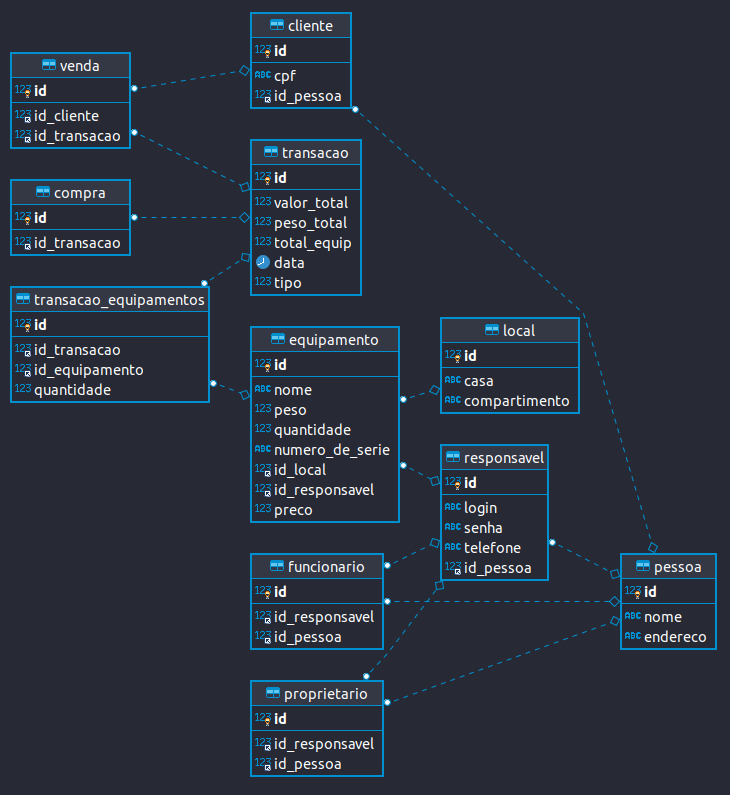
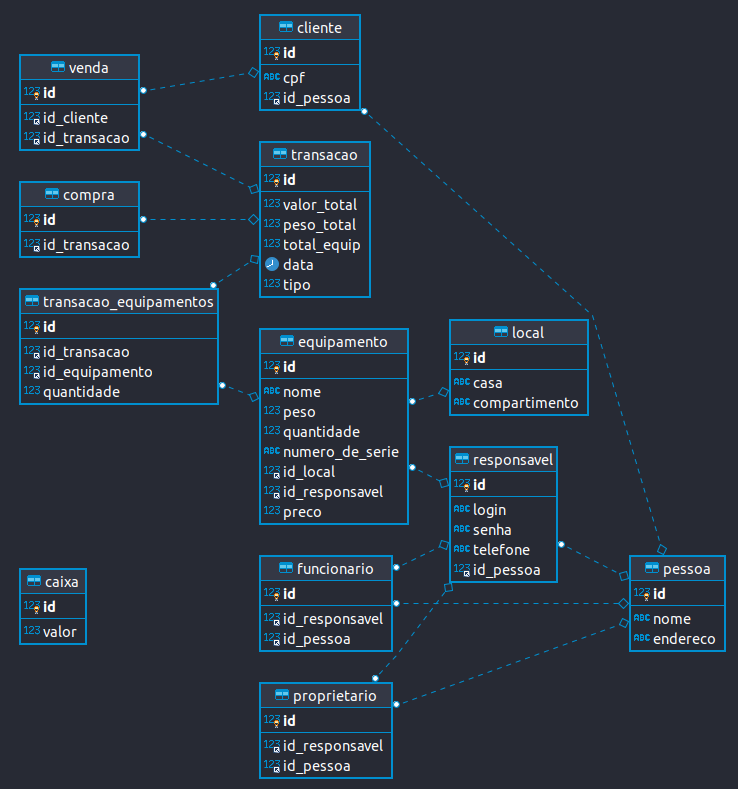
Final diagram

Changed region(s): [[0.0, 0.0, 0.8137, 1.0], [0.8137, 0.6692, 0.9945, 0.8213], [0.0, 0.6996, 0.1205, 0.8213]]

diff --git a/src/br/com/minhaCasaTech/controller/GerenciarVendaController.java b/src/br/com/minhaCasaTech/controller/GerenciarVendaController.java
@@ -19,6 +19,7 @@ import br.com.minhaCasaTech.model.VO.ResponsavelVO;
 import br.com.minhaCasaTech.model.VO.VendaVO;
 import br.com.minhaCasaTech.view.Telas;
 import exception.InsertException;
+import exception.NotFoundException;
 import javafx.beans.property.SimpleDoubleProperty;
 import javafx.collections.FXCollections;
 import javafx.fxml.FXML;
@@ -59,7 +60,7 @@ public class GerenciarVendaController implements Initializable {
 	@FXML private Label qtdInvalida;
 	@FXML private Label labelTotal;
 	@FXML private Label saldoInsuficiente;
-	@FXML private ComboBox<ClienteVO> clienteCB;
+	@FXML private ComboBox clienteCB;
 	@FXML private TitledPane qtdEquipamento;
 	@FXML private TextField quantidade;
 
@@ -112,7 +113,16 @@ public class GerenciarVendaController implements Initializable {
     
     	caixa.addValor(venda.getValorTotal());
     	try {
-    		venda.setCliente(clienteCB.getValue());
+    		ClienteBO cbo = new ClienteBO();
+    		ClienteVO cliente = new ClienteVO();
+    		cliente.setCpf(clienteCB.getSelectionModel().getSelectedItem().toString());
+    		try {
+				cliente = cbo.buscarPorCpf(cliente);
+				cliente = cbo.buscarPorId(cliente);
+			} catch (NotFoundException e1) {
+				e1.printStackTrace();
+			}
+    		venda.setCliente(cliente);
     		venda.setTipo(0);
     		System.out.println(venda);
     		vbo.cadastrar(venda);

diff --git a/src/br/com/minhaCasaTech/model/BO/EquipamentoBO.java b/src/br/com/minhaCasaTech/model/BO/EquipamentoBO.java
@@ -12,7 +12,7 @@ import br.com.minhaCasaTech.model.VO.ResponsavelVO;
 import exception.NotFoundException;
 
 
-public class EquipamentoBO implements EquipamentoInterBO{
+public class EquipamentoBO implements BaseInterBO<EquipamentoVO>{
 	
 	public void cadastrar(EquipamentoVO equipamento) {
 		EquipamentoDAO edao = new EquipamentoDAO();

diff --git a/src/br/com/minhaCasaTech/model/BO/LocalBO.java b/src/br/com/minhaCasaTech/model/BO/LocalBO.java
@@ -8,7 +8,7 @@ import java.util.List;
 
 import br.com.minhaCasaTech.model.DAO.LocalDAO;
 import br.com.minhaCasaTech.model.VO.LocalVO;
-public class LocalBO implements localInterBO{
+public class LocalBO implements BaseInterBO<LocalVO>{
 
 	public void cadastrar(LocalVO local) {
 		LocalDAO dao = new LocalDAO();

diff --git a/src/br/com/minhaCasaTech/model/DAO/CaixaDAO.java b/src/br/com/minhaCasaTech/model/DAO/CaixaDAO.java
@@ -53,7 +53,7 @@ public class CaixaDAO {
 		
 	}
 	public void attValor(double valor) {
-		String sql = "upadte caixa set valor = ? where id = 1";
+		String sql = "update caixa set valor = ? where id = 1";
 		try {
 			PreparedStatement pst =getCon().prepareStatement(sql);
 			pst.setDouble(1, valor);
